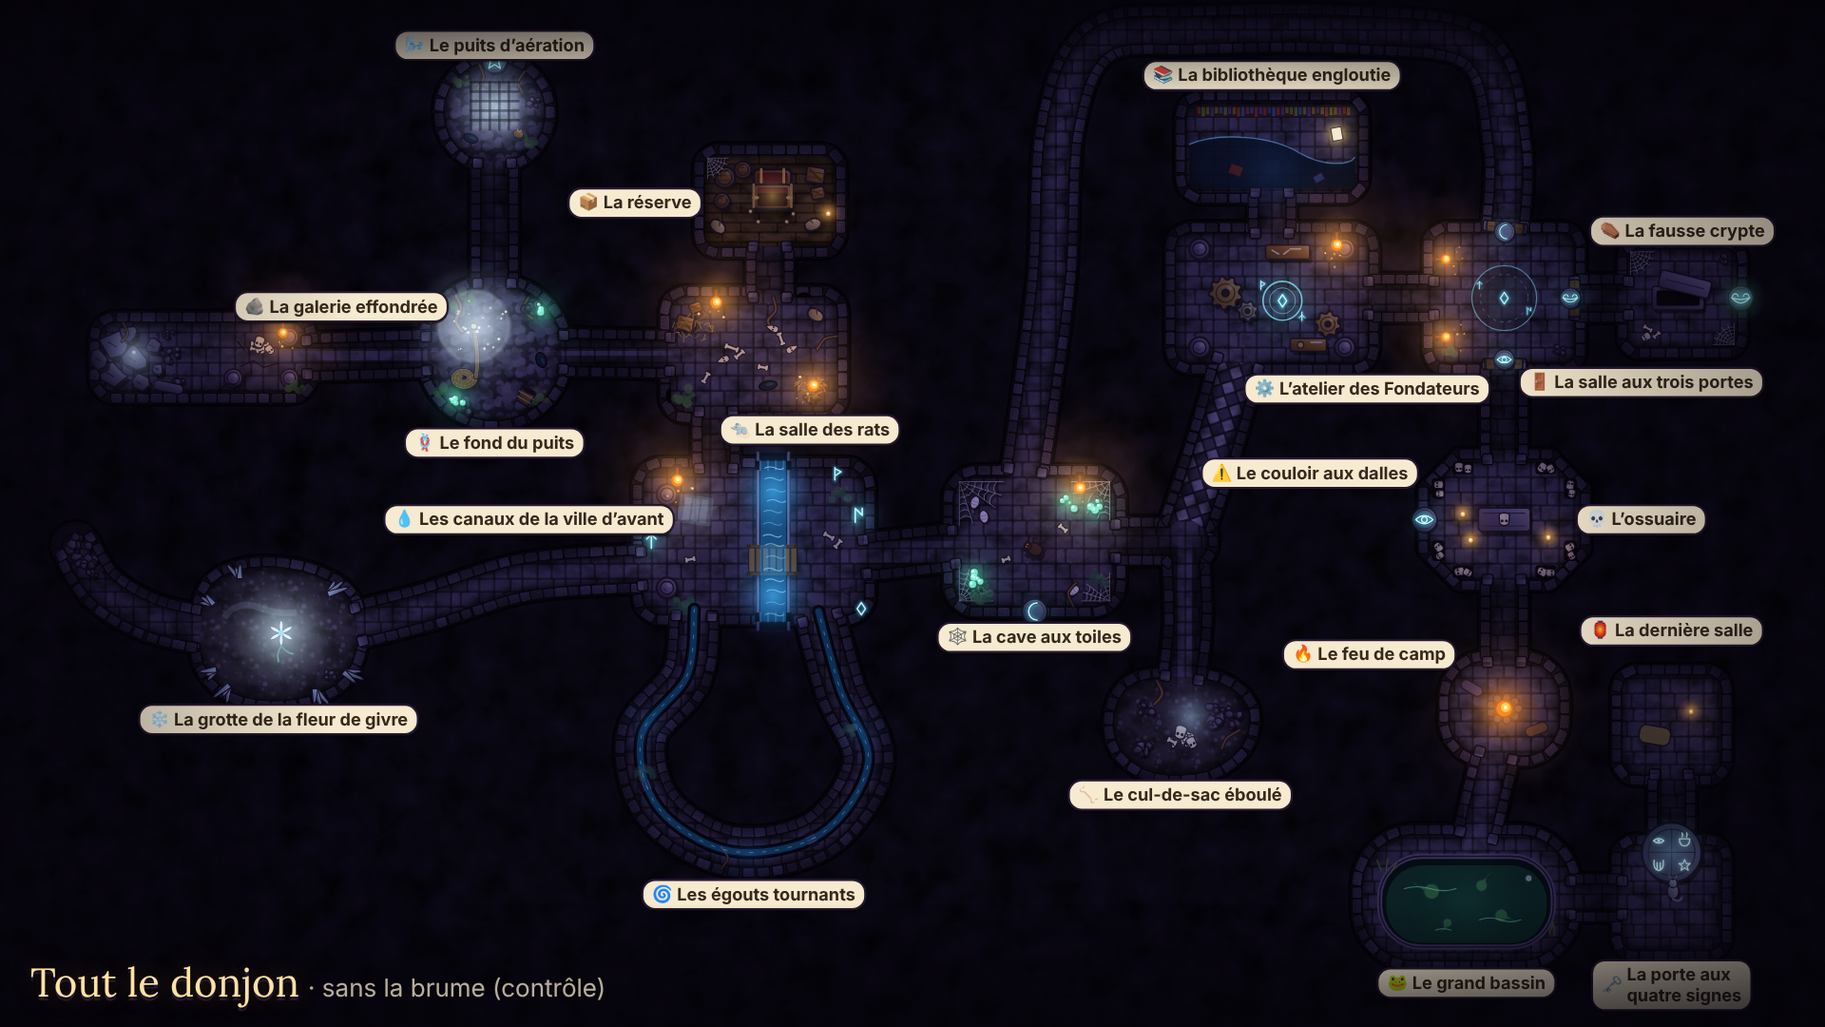
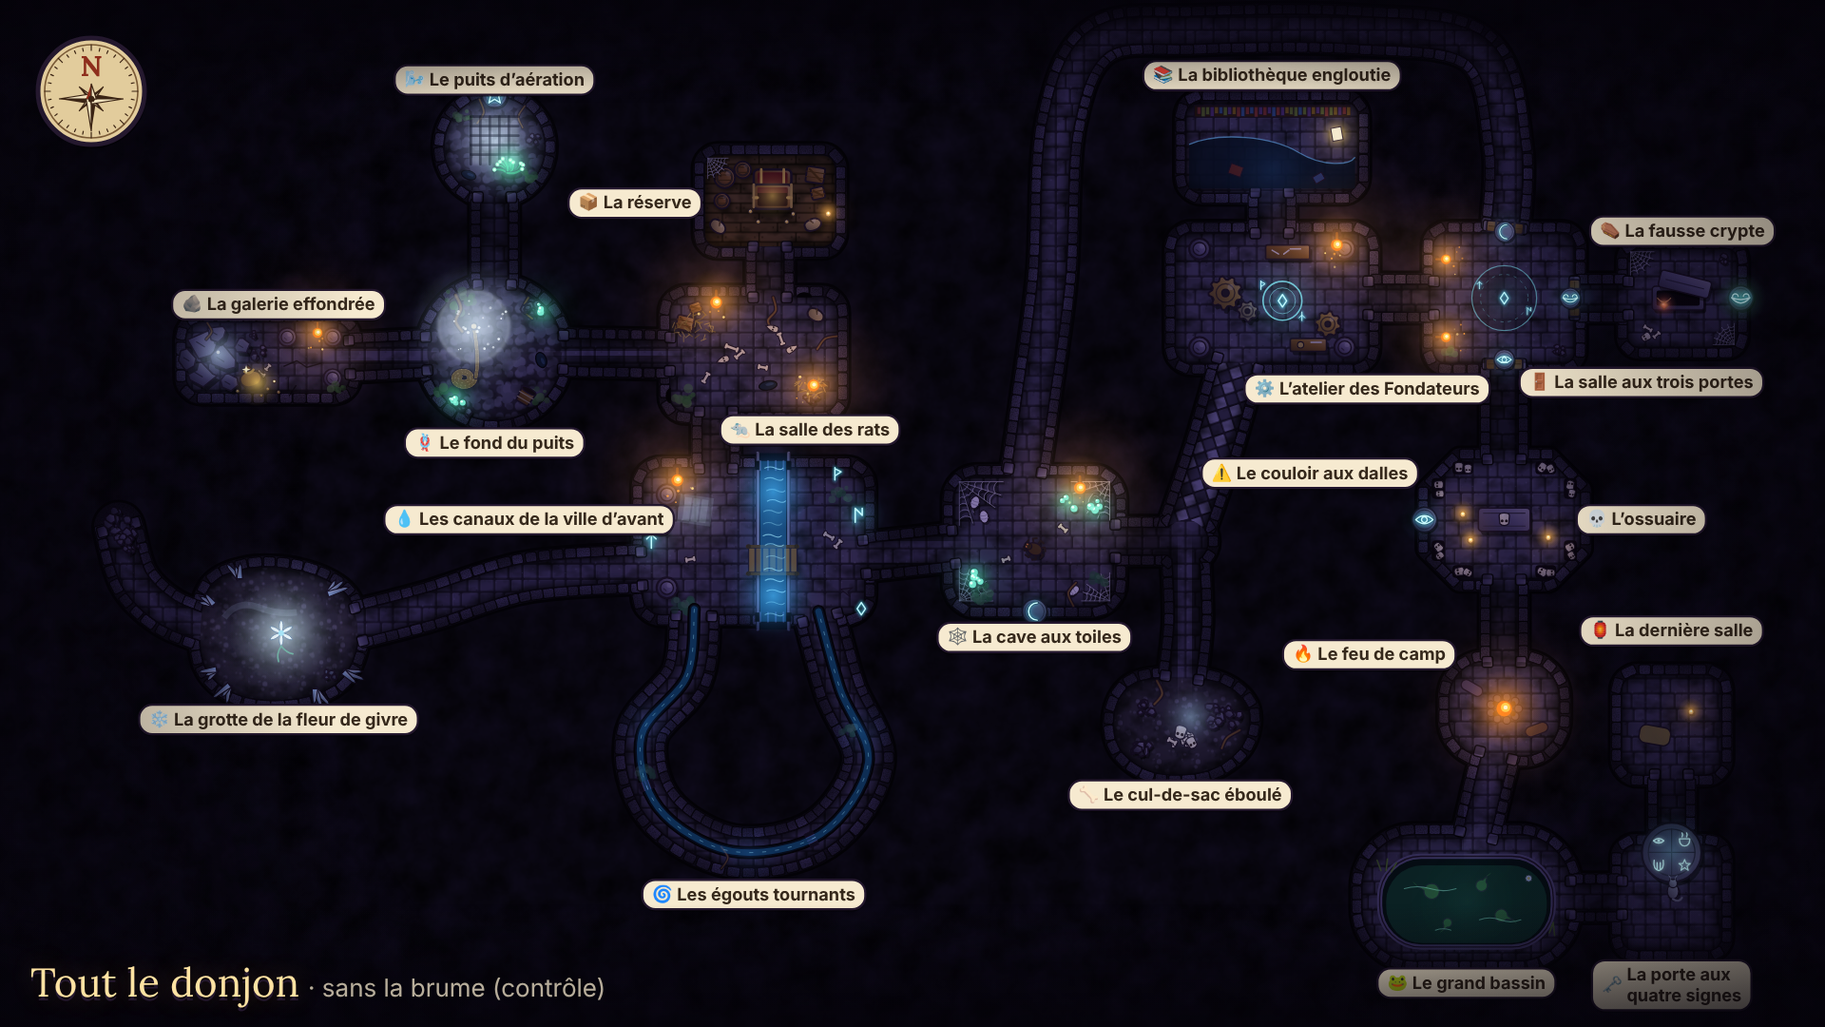
Donjon : exploration, rose des vents et culs-de-sac courts avec une trouvaille
Claude-Session: https://claude.ai/code/session_014tBbPJtKqYNLRAPgA5SpCV

diff --git a/jeu/donjon/maquettes/explo/donjon.js b/jeu/donjon/maquettes/explo/donjon.js
@@ -64,8 +64,8 @@ var SALLES = {}, ORDRE = [];
 function salle(id, o){ o.id = id; if(o.v1) o.d = modele(id, o.x, o.y); SALLES[id] = o; ORDRE.push(id); }
 /* signe : les salles que le plan du Sage marque d'un signe au lieu d'un nom (le Pisteur voit le même signe gravé au mur) */
 salle('puits',    {nom:'Le fond du puits', ic:'🪢', x:1200, y:750, v1:1});
-salle('aeration', {nom:'Le puits d’aération', ic:'🌬', x:1200, y:528, d:cercle(1200, 528, 46), signe:'etoile'});
-salle('galerie',  {nom:'La galerie effondrée', ic:'🪨', x:930, y:755, d:rr(930, 755, 190, 64, 14)});
+salle('aeration', {nom:'Le puits d’aération', ic:'🌬', x:1200, y:560, d:cercle(1200, 560, 46), signe:'etoile'});
+salle('galerie',  {nom:'La galerie effondrée', ic:'🪨', x:990, y:755, d:rr(990, 755, 150, 64, 14)});
 salle('rats',     {nom:'La salle des rats', ic:'🐀', x:1440, y:752, v1:1});
 salle('reserve',  {nom:'La réserve', ic:'📦', x:1455, y:610, v1:1});
 salle('canaux',   {nom:'Les canaux de la ville d’avant', ic:'💧', x:1440, y:925, v1:1});
@@ -87,8 +87,8 @@ salle('derniere', {nom:'La dernière salle', ic:'🏮', x:2290, y:1095, v1:1});
 var J = {x:1840, y:925, r:20};          /* l'embranchement, à la sortie est de la cave aux toiles */
 var COULOIRS = [
   {id:'cE', de:'puits', a:'rats', pts:[[1258, 750], [1310, 751], [1368, 752]]},
-  {id:'cO', de:'puits', a:'galerie', pts:[[1142, 751], [1085, 753], [1020, 755]]},
-  {id:'cN', de:'puits', a:'aeration', pts:[[1200, 694], [1200, 635], [1200, 570]]},
+  {id:'cO', de:'puits', a:'galerie', pts:[[1142, 751], [1102, 753], [1060, 755]]},
+  {id:'cN', de:'puits', a:'aeration', pts:[[1200, 694], [1200, 650], [1200, 602]]},
   {id:'c2', de:'rats', a:'reserve', pts:[[1455, 703], [1455, 648]]},
   {id:'c3', de:'rats', a:'canaux', pts:[[1405, 800], [1405, 862]]},
   {id:'c4', de:'canaux', a:'givre', pts:[[1342, 950], [1230, 958], [1140, 985], [1066, 1004]]},
@@ -109,8 +109,8 @@ COULOIRS.push({id:'dalles', de:'J', a:'atelier', pts:SALLES.dalles.pts, l:SALLES
 COULOIRS.push({id:'egouts', de:'canaux', a:'canaux', pts:SALLES.egouts.pts, l:SALLES.egouts.l, salle:'egouts'});
 /* le vieux passage : le plan du Sage le dessine de la galerie jusqu'à la grotte de givre ; aujourd'hui, il est bouché par un éboulement.
    Dans le donjon, il n'en reste qu'un bout, côté grotte, qui finit sur des éboulis. */
-var VIEUX = [[846, 762], [804, 800], [788, 878], [818, 952], [872, 992], [934, 1008]];
-COULOIRS.push({id:'vieux', de:'givre', a:null, pts:[[812, 930], [836, 968], [880, 995], [934, 1008]], bouche:true});
+var VIEUX = [[921, 762], [872, 790], [846, 860], [856, 935], [890, 985], [934, 1006]];
+COULOIRS.push({id:'vieux', de:'givre', a:null, pts:[[852, 912], [866, 960], [896, 990], [934, 1006]], bouche:true});
 var SECRET = [[1892, 1096], [1950, 1092], [2005, 1086], [2088, 1082]];   /* du cul-de-sac éboulé au feu de camp : seule l'encre invisible du plan le montre */
 
 window.DONJON = {W:W, H:H, WW:WW, WH:WH, SALLES:SALLES, ORDRE:ORDRE, COULOIRS:COULOIRS, J:J, SECRET:SECRET, VIEUX:VIEUX};
@@ -385,7 +385,7 @@ function signe(type, x, y, s, plaque){
   e += G(x, y, 0, s, '<path d="' + g + '" fill="none" stroke="#4fe0ff" stroke-width="3.6" opacity=".5" filter="' + flou(1.8) + '" stroke-linejoin="round"/><path d="' + g + '" fill="none" stroke="#c8faff" stroke-width="1.3" stroke-linejoin="round" stroke-linecap="round"/>');
   return {b:b, e:e, l:[x, y, 34, '#5fe8ff', .55]};
 }
-var SIGNES_MUR = {aeration:[1200, 480], cave:[1700, 990], crypte:[2354, 700], ossuaire:[2061, 905]};
+var SIGNES_MUR = {aeration:[1200, 512], cave:[1700, 990], crypte:[2354, 700], ossuaire:[2061, 905]};
 
 /* ================= le décor des salles ================= */
 function deco(id, etat){
@@ -412,34 +412,40 @@ function decoNeuf(id, etat){
   function add(o){ b += o.b || ''; e += o.e || ''; if(o.l) l.push(o.l); }
   switch(id){
   case 'galerie':
-    /* une longue galerie à colonnes ; au fond (à l'ouest), la voûte s'est effondrée et bouche tout */
-    b += colonne(1010, 736, 6.5) + colonne(1010, 774, 6.5) + colonne(958, 774, 6.5);
-    b += L('M1000 760 l-14 4 l-9 -6 l-12 5 M968 748 l-6 -8', '#0c0812', 1.2, ' opacity=".8"') + L('M944 786 l8 -7 l10 2', '#0c0812', 1, ' opacity=".7"');
-    /* l'éboulement : de gros blocs, puis des cailloux qui ont roulé */
+    /* une galerie à colonnes ; au fond (à l'ouest), la voûte s'est effondrée et bouche tout */
+    b += colonne(1050, 736, 6.5) + colonne(1050, 774, 6.5) + colonne(1008, 736, 6.5);
+    b += L('M1040 760 l-14 4 l-9 -6 l-12 5 M1010 790 l6 -9', '#0c0812', 1.2, ' opacity=".8"');
     var Rb = rng(215), blocs = '';
-    [[848, 742, 15], [846, 770, 14], [866, 756, 13], [860, 732, 9], [872, 778, 9], [884, 744, 8], [834, 756, 10], [888, 765, 6]].forEach(function(q){
+    [[930, 742, 15], [928, 770, 14], [948, 756, 13], [942, 732, 9], [954, 778, 9], [966, 744, 8], [916, 756, 10]].forEach(function(q){
       var pts = []; for(var k = 0; k < 7; k++){ var a2 = k / 7 * 6.283 + Rb(); pts.push([q[0] + Math.cos(a2) * q[2] * (.75 + Rb() * .35), q[1] + Math.sin(a2) * q[2] * (.75 + Rb() * .35)]); }
       blocs += F(poly(pts.map(function(p){ return [p[0] + 3, p[1] + 4]; })), '#000', ' opacity=".55"') + P(poly(pts), grad(mix('#6a6088', '#3e3550', Rb() * .5)), ' stroke-width="1.4"') + L('M' + f(q[0] - q[2] * .4) + ' ' + f(q[1] - q[2] * .1) + ' l' + f(q[2] * .5) + ' ' + f(q[2] * .3), '#2a2238', 1);
     });
-    b += eboulis(900, 752, 9, 203) + eboulis(906, 776, 6, 205) + eboulis(898, 734, 5, 207) + blocs;
-    b += G(898, 782, 12, 1, '<rect x="-14" y="-4" width="28" height="9" rx="4.5" fill="' + grad('#5e5478') + '" stroke="' + O + '" stroke-width="1.2"/>');
-    /* le tas d'os à fouiller */
-    var Ro = rng(211), to = ''; for(var k = 0; k < 10; k++) to += os(984 + (Ro() - .5) * 16, 744 + (Ro() - .5) * 8, Ro() * 180, 5 + Ro() * 4);
-    b += to + crane(982, 741, 20, 1.1) + crane(992, 748, -40, .9);
-    b += mousse(1016, 784, 7, 213) + racine([[856, 723], [860, 733], [855, 740]], 1.6);
-    add(torche(1004, 723, 90));
-    e += lum(866, 752, 26, '#bfe2ff', .6) + C(866, 750, 1.6, '#eef8ff', ' opacity=".8"'); l.push([866, 752, 64, '#9ac4ff', .8]);   /* un filet de lune passe entre les blocs */
+    b += eboulis(980, 750, 8, 203) + eboulis(978, 734, 4, 207) + blocs + os(984, 770, 30, 6) + os(990, 764, -50, 5);
+    /* la trouvaille : une bourse de pièces, tombée près des éboulis */
+    b += G(974, 774, -12, 1.4, '<ellipse cx="2" cy="3" rx="8" ry="6" fill="#000" opacity=".45"/><path d="M-7 1 C -8 -6 7 -7 7 0 C 8 7 -7 8 -7 1 Z" fill="' + grad('#9a6a38') + '" stroke="' + O + '" stroke-width="1.2"/>' +
+      L('M-3 -5 Q 0 -2 3 -5', '#e0b85a', 1.6) + '<path d="M-2 -6 L 0 -9 L 2 -6" fill="#7a4a28" stroke="' + O + '" stroke-width=".8"/>') +
+      piece(990, 784) + piece(996, 777) + piece(984, 790) + piece(1000, 787) + piece(962, 786);
+    e += lum(980, 778, 22, '#ffd36a', .8) + G(970, 766, 0, 1, '<path d="M0 -4 L 1 -1 L 4 0 L 1 1 L 0 4 L -1 1 L -4 0 L -1 -1 Z" fill="#fff6d0"/>') + C(996, 777, .9, '#fff6d0');
+    b += mousse(1054, 784, 6, 213) + racine([[934, 723], [938, 731], [933, 738]], 1.6);
+    add(torche(1036, 723, 90));
+    e += lum(944, 752, 26, '#bfe2ff', .6) + C(944, 750, 1.6, '#eef8ff', ' opacity=".8"'); l.push([944, 752, 64, '#9ac4ff', .8]);   /* un filet de lune passe entre les blocs */
     break;
   case 'aeration':
-    b += mousse(1172, 500, 9, 221) + mousse(1232, 556, 8, 223, '#355f40') + racine([[1186, 484], [1190, 496], [1184, 506]], 1.6) + racine([[1228, 490], [1222, 500], [1226, 510]], 1.4);
-    b += flaque(1178, 552, 7, 4, 20) + eboulis(1236, 518, 5, 225);
+    b += mousse(1172, 532, 9, 221) + mousse(1232, 588, 8, 223, '#355f40') + racine([[1186, 516], [1190, 528], [1184, 538]], 1.6) + racine([[1228, 522], [1222, 532], [1226, 542]], 1.4);
+    b += flaque(1176, 586, 7, 4, 20) + eboulis(1236, 552, 5, 225);
     /* la grille du puits d'aération : la lune tombe en carreaux */
-    var gr = ''; for(var gx = -22; gx <= 22; gx += 8.8) gr += L('M' + (1200 + gx) + ' 500 V544', '#0a0814', 2.4, ' opacity=".55"'); for(var gy = -22; gy <= 22; gy += 8.8) gr += L('M1178 ' + (522 + gy) + ' H1222', '#0a0814', 2.4, ' opacity=".55"');
-    e += '<g style="mix-blend-mode:screen"><circle cx="1200" cy="522" r="44" fill="' + halo('#bfe4ff') + '" opacity=".55"/><rect x="1178" y="500" width="44" height="44" rx="3" fill="#d8eeff" opacity=".2" filter="' + flou(1.5) + '"/></g>' + gr;
-    l.push([1200, 522, 78, '#a8d4ff', 1.2]);
-    /* la petite trouvaille : une bourse oubliée */
-    b += G(1222, 548, 15, 1, '<ellipse cx="1.5" cy="2" rx="5.5" ry="4.5" fill="#000" opacity=".4"/><path d="M-5 0 C -5 -5 5 -5 5 0 C 5 5 -5 5 -5 0 Z" fill="' + grad('#8a5a30') + '" stroke="' + O + '" stroke-width="1"/>' + L('M-2 -4 L 0 -2 L 2 -4', '#c9a35a', 1));
-    if(!vu) e += lum(1222, 548, 8, '#ffd36a', .7);
+    var gr = ''; for(var gx = -22; gx <= 22; gx += 8.8) gr += L('M' + (1200 + gx) + ' 532 V576', '#0a0814', 2.4, ' opacity=".55"'); for(var gy = -22; gy <= 22; gy += 8.8) gr += L('M1178 ' + (554 + gy) + ' H1222', '#0a0814', 2.4, ' opacity=".55"');
+    e += '<g style="mix-blend-mode:screen"><circle cx="1200" cy="554" r="44" fill="' + halo('#bfe4ff') + '" opacity=".55"/><rect x="1178" y="532" width="44" height="44" rx="3" fill="#d8eeff" opacity=".2" filter="' + flou(1.5) + '"/></g>' + gr;
+    l.push([1200, 554, 78, '#a8d4ff', 1.2]);
+    /* la trouvaille : des herbes qui luisent, nourries par la lune */
+    var Rh = rng(227), hb = '', he = '';
+    for(var k = 0; k < 9; k++){ var a3 = -Math.PI / 2 + (k - 4) * .32 + (Rh() - .5) * .2, lg = 9 + Rh() * 7, x0 = 1214 + (Rh() - .5) * 6, y0 = 584;
+      var x1 = x0 + Math.cos(a3) * lg, y1 = y0 + Math.sin(a3) * lg, cx = x0 + Math.cos(a3 + .5) * lg * .5, cy = y0 + Math.sin(a3 + .5) * lg * .5;
+      hb += L('M' + f(x0) + ' ' + f(y0) + ' Q' + f(cx) + ' ' + f(cy) + ' ' + f(x1) + ' ' + f(y1), O, 3.2) + L('M' + f(x0) + ' ' + f(y0) + ' Q' + f(cx) + ' ' + f(cy) + ' ' + f(x1) + ' ' + f(y1), '#3a9a6a', 1.8);
+      he += C(x1, y1, 1.9, '#9fffd8') + C(x1, y1, .8, '#f0fff8'); }
+    b += '<ellipse cx="1216" cy="586" rx="10" ry="4" fill="#000" opacity=".4"/>' + hb;
+    e += lum(1214, 576, 22, '#5fffc0', .8) + he;
+    l.push([1214, 578, 46, '#4fffb8', .7]);
     break;
   case 'portes':
     e += G(2135, 700, 0, 1, '<circle r="30" fill="none" stroke="#7ff0ff" stroke-width="1.1" opacity=".5"/><circle r="22" fill="none" stroke="#7ff0ff" stroke-width=".7" opacity=".35" stroke-dasharray="3 4"/>') + rune(2135, 700, .9, 4) + rune(2112, 688, .55, 2) + rune(2158, 712, .55, 6);
@@ -453,7 +459,8 @@ function decoNeuf(id, etat){
     b += G(2296, 700, 0, 1, '<rect x="-24" y="-11" width="48" height="22" rx="3" fill="#000" opacity=".5" transform="translate(2 3)"/><rect x="-24" y="-11" width="48" height="22" rx="3" fill="' + grad('#5a5272') + '" stroke="' + O + '" stroke-width="1.3"/><rect x="-20" y="-7" width="40" height="14" rx="2" fill="#0c0812"/>') +
       G(2302, 688, 14, 1, '<rect x="-24" y="-9" width="48" height="16" rx="3" fill="#000" opacity=".4" transform="translate(2 3)"/><rect x="-24" y="-9" width="48" height="16" rx="3" fill="' + grad('#6a6288') + '" stroke="' + O + '" stroke-width="1.3"/>' + L('M-18 -1 H18', '#3a3250', 1));
     b += toile(2252, 657, 22, 0, Math.PI / 2, false, 31) + toile(2348, 743, 20, Math.PI, Math.PI * 1.5, false, 33) + os(2268, 728, 30, 7) + os(2276, 734, -40, 6) + crane(2266, 736, 60, .9) + eboulis(2340, 664, 5, 235);
-    e += lum(2354, 700, 24, '#6fff9a', .35);
+    b += G(2283, 704, 0, 1, L('M-6 -4 Q 0 3 6 -4', '#c9a35a', 1.1) + '<path d="M0 -1 L 3.4 2.6 L 0 6.4 L -3.4 2.6 Z" fill="#d8303e" stroke="#5a3a1a" stroke-width="1.2"/>' + C(-1, 1.6, .9, '#ffd0d0'));
+    e += lum(2354, 700, 24, '#6fff9a', .35) + lum(2283, 706, 12, '#ff6a6a', .6) + lum(2283, 706, 6, '#ffd36a', .5);
     break;
   case 'egouts':
     var dE = lisse(SALLES.egouts.pts);
@@ -467,7 +474,7 @@ function decoNeuf(id, etat){
   return {b:b, e:e, l:l};
 }
 /* le bout du vieux passage, côté grotte de givre : il finit sur un éboulement */
-function decoVieux(){ return eboulis(816, 934, 17, 251, '#5e5478') + eboulis(828, 950, 9, 253); }
+function decoVieux(){ return eboulis(852, 910, 17, 251, '#5e5478') + eboulis(862, 928, 9, 253); }
 
 /* ================= les repères de sortie ================= */
 function sortie(c, t, inverse){
@@ -761,6 +768,17 @@ function volutes(seed){
 }
 
 /* ================= la petite main qui glisse (on peut faire glisser la carte) ================= */
+function roseEcran(x, y){   /* même dessin que la rose du plan du Sage ; le nord est en haut, comme sur le plan */
+  var ENC = '#3b2414', ROU = '#8e2e1c', s = '<circle r="28" fill="#000" opacity=".45" transform="translate(1 2)"/><circle r="28" fill="#e2cc9c" stroke="' + O + '" stroke-width="2.5"/><circle r="24.5" fill="none" stroke="#7a5a36" stroke-width=".8"/>';
+  for(var k = 0; k < 32; k++){ var a = k / 32 * 6.283; s += L('M' + f(Math.cos(a) * 21.5) + ' ' + f(Math.sin(a) * 21.5) + ' L' + f(Math.cos(a) * (k % 4 ? 23 : 24.5)) + ' ' + f(Math.sin(a) * (k % 4 ? 23 : 24.5)), ENC, .6); }
+  for(var k2 = 7; k2 >= 0; k2--){
+    var a2 = k2 / 8 * 6.283 - Math.PI / 2, lg = k2 % 2 ? 9 : (k2 === 0 ? 8 : 17), la = k2 % 2 ? 1.6 : 2.7;
+    var px = Math.cos(a2) * lg, py = Math.sin(a2) * lg + 4, gx = Math.cos(a2 - Math.PI / 2) * la, gy = Math.sin(a2 - Math.PI / 2) * la + 4, dx = Math.cos(a2 + Math.PI / 2) * la, dy = Math.sin(a2 + Math.PI / 2) * la + 4;
+    s += '<path d="M0 4 L' + f(gx) + ' ' + f(gy) + ' L' + f(px) + ' ' + f(py) + ' Z" fill="' + (k2 === 0 ? ROU : ENC) + '"/><path d="M0 4 L' + f(dx) + ' ' + f(dy) + ' L' + f(px) + ' ' + f(py) + ' Z" fill="#f2e4c0" stroke="' + ENC + '" stroke-width=".6"/>';
+  }
+  s += C(0, 4, 1.6, ENC) + '<text x="0" y="-12.5" text-anchor="middle" dominant-baseline="central" font-size="15" font-weight="700" style="font-family:Lora, Georgia, serif;paint-order:stroke" stroke="#e2cc9c" stroke-width="2.6" fill="' + ROU + '">N</text>';
+  return G(x, y, 0, 1, s);
+}
 function mainGlisse(x, y){
   var fl = 'M-22 -20 H22 M-16 -25 L -22 -20 L -16 -15 M16 -25 L 22 -20 L 16 -15';
   return G(x, y, 0, 1, '<circle r="31" fill="#0c0812" opacity=".6"/>' +
@@ -774,20 +792,20 @@ function mainGlisse(x, y){
 var PV = {pisteur:120, alchimiste:100, sage:90};
 var ETATS = {
   debut:{
-    ecran:[720, 480], vu:['puits'], couloirs:{cE:.56, cO:.56, cN:.56}, heros:[1200, 752, 0],
-    sorties:[['cE', .51], ['cO', .51], ['cN', .51]], main:true,
+    ecran:[720, 480], vu:['puits'], couloirs:{cE:.48, cO:.6, cN:.52}, heros:[1200, 752, 0],
+    sorties:[['cE', .42], ['cO', .52], ['cN', .45]], main:true,
     bulle:{t:'Trois passages s’enfoncent dans la brume… Par où aller ?', x:372, w:380},
     pv:{pisteur:120, alchimiste:100, sage:90}
   },
   impasse:{
-    ecran:[640, 480], vu:['puits', 'galerie'], couloirs:{cE:.56, cN:.56, cO:1}, heros:[944, 757, 180],
-    sorties:[['cE', .51], ['cN', .51]],
+    ecran:[690, 480], vu:['puits', 'galerie'], couloirs:{cE:.48, cN:.52, cO:1}, heros:[1046, 752, 180],
+    sorties:[['cE', .42], ['cN', .45]],
     bulle:{t:'Des éboulis, rien que des éboulis… Le Sage avait peut-être une idée ?', x:360, w:400},
     pv:{pisteur:120, alchimiste:100, sage:90}
   },
   milieu:{
     ecran:[1000, 505], vu:['puits', 'galerie', 'rats', 'reserve', 'canaux', 'cave'], J:true,
-    couloirs:{cE:1, cO:1, cN:.5, c2:1, c3:1, c5:1, c6:1, c4:.3, egouts:[[0, .1], [.9, 1]], pLune:[[.9, 1]], dalles:.46, c8:.5}, heros:[1793, 925, 0],
+    couloirs:{cE:1, cO:1, cN:.52, c2:1, c3:1, c5:1, c6:1, c4:.3, egouts:[[0, .1], [.9, 1]], pLune:[[.9, 1]], dalles:.46, c8:.5}, heros:[1793, 925, 0],
     sorties:[['cN', .45], ['c4', .25], ['pLune', .915, 1], ['dalles', .42], ['c8', .45]],
     bulle:{t:'Encore trois passages dans la brume… Le Sage sait peut-être lequel prendre.', x:560, w:384}, etiq:{galerie:[1093, 806]},
     pv:{pisteur:84, alchimiste:71, sage:58}
@@ -797,7 +815,7 @@ var ETATS = {
 COULOIRS.forEach(function(c){ ETATS.tout.couloirs[c.id] = 1; });
 /* où poser les étiquettes */
 var ETIQ = {
-  puits:[1200, 834], galerie:[1058, 708], aeration:[1200, 466], rats:[1492, 822], reserve:[1330, 612], canaux:[1232, 905], givre:[1000, 1090],
+  puits:[1200, 834], galerie:[1000, 706], aeration:[1200, 498], rats:[1492, 822], reserve:[1330, 612], canaux:[1232, 905], givre:[1000, 1090],
   cave:[1700, 1014], dalles:[1955, 862], egouts:[1440, 1252], eboule:[1835, 1160], atelier:[2008, 784], biblio:[1920, 494], portes:[2262, 778],
   crypte:[2300, 638], ossuaire:[2262, 905], feu:[2010, 1030], bassin:[2100, 1334], porte:[2290, 1336], derniere:[2290, 1008]
 };
@@ -831,7 +849,7 @@ function vue(nom){
   if(!E.tout){
     var dm = '<rect x="' + (Z.x - 160) + '" y="' + (Z.y - 160) + '" width="' + (Z.w + 320) + '" height="' + (Z.h + 320) + '" fill="#fff"/>';
     E.vu.forEach(function(k){ var r = SALLES[k]; dm += '<path d="' + r.d + '" fill="#000" stroke="#000" stroke-width="' + (2 * M + 34) + '" stroke-linejoin="round"/>'; });
-    COULOIRS.forEach(function(c){ var t = E.couloirs[c.id]; if(t) morceaux(t).forEach(function(m){ dm += '<path d="' + lisse(troncon(c.pts, m[0], m[1])) + '" fill="none" stroke="#000" stroke-width="' + ((c.l || SOL) + 2 * M + 26) + '" stroke-linecap="round" stroke-linejoin="round"/>'; }); });
+    COULOIRS.forEach(function(c){ var t = E.couloirs[c.id]; if(t) morceaux(t).forEach(function(m){ dm += '<path d="' + lisse(troncon(c.pts, m[0], m[1])) + '" fill="none" stroke="#000" stroke-width="' + ((c.l || SOL) + 2 * M + 26) + '" stroke-linecap="' + (m[1] - m[0] >= 1 ? 'round' : 'butt') + '" stroke-linejoin="round"/>'; }); });
     if(E.J) dm += '<circle cx="' + J.x + '" cy="' + J.y + '" r="' + (J.r + M + 18) + '" fill="#000"/>';
     DEFS.l.push('<mask id="mBrume" maskUnits="userSpaceOnUse" x="' + (Z.x - 160) + '" y="' + (Z.y - 160) + '" width="' + (Z.w + 320) + '" height="' + (Z.h + 320) + '"><g filter="url(#densite)">' + dm + '</g></mask>');
     corps += '<g mask="url(#mBrume)"><rect x="' + (Z.x - 150) + '" y="' + (Z.y - 150) + '" width="' + (Z.w + 300) + '" height="' + (Z.h + 300) + '" filter="url(#nuage)"/>' + volutes(7) + '</g>';
@@ -851,6 +869,7 @@ function vue(nom){
   DEFS.l.push('<linearGradient id="vigH" x1="0" y1="0" x2="0" y2="1"><stop offset="0" stop-color="#05030a" stop-opacity=".75"/><stop offset=".1" stop-color="#05030a" stop-opacity="0"/><stop offset=".88" stop-color="#05030a" stop-opacity="0"/><stop offset="1" stop-color="#05030a" stop-opacity=".7"/></linearGradient>');
   var ecran = '<rect width="' + W + '" height="' + H + '" fill="url(#vig)"/><rect width="' + W + '" height="' + H + '" fill="url(#vigH)"/>';
   if(E.main) ecran += mainGlisse(900, 418);
+  ecran += E.tout ? roseEcran(48, 48) : roseEcran(48, 86);
   corps += '<g transform="translate(' + VB[0] + ' ' + VB[1] + ') scale(' + f(VB[2] / W * 1000) / 1000 + ')">' + ecran + '</g>';
   var svg = '<svg viewBox="' + VB.join(' ') + '" width="' + W + '" height="' + H + '" style="position:absolute;inset:0;display:block"><defs>' + DEFS.l.join('') + '</defs>' + corps + '</svg>';
   return CSS + '<div class="ex">' + svg + (E.tout ? '<div class="ex-a" style="left:16px;bottom:10px"><span class="ex-titre">Tout le donjon</span> <span class="ex-sous">· sans la brume (contrôle)</span></div>' : hud(E)) + '</div>';

diff --git a/jeu/donjon/maquettes/explo/plan.js b/jeu/donjon/maquettes/explo/plan.js
@@ -125,10 +125,10 @@ function details(){
   var s = '', w = 1.7;
   Object.keys(V1C).forEach(function(k){ var o = S[k], v = V1C[k]; s += '<g transform="translate(' + o.x + ' ' + o.y + ') scale(1.2) translate(' + (-v[0]) + ' ' + (-v[1]) + ')">' + detailsV1(k) + '</g>'; });
   /* la grande galerie (le plan est vieux : il la montre intacte) */
-  s += colonne(1010, 736, 6, w) + colonne(1010, 774, 6, w) + colonne(946, 736, 6, w) + colonne(946, 774, 6, w) + colonne(882, 736, 6, w) + colonne(882, 774, 6, w);
+  s += colonne(1050, 736, 6, w) + colonne(1050, 774, 6, w) + colonne(990, 736, 6, w) + colonne(990, 774, 6, w) + colonne(930, 736, 6, w) + colonne(930, 774, 6, w);
   /* le puits d'aération : sa grille */
-  s += '<rect x="1180" y="502" width="40" height="40" fill="#9fb8c0" opacity=".25"/>';
-  for(var g = 0; g <= 40; g += 8) s += L('M' + (1180 + g) + ' 502 V542 M1180 ' + (502 + g) + ' H1220', ENC, w * .7);
+  s += '<rect x="1180" y="534" width="40" height="40" fill="#9fb8c0" opacity=".25"/>';
+  for(var g = 0; g <= 40; g += 8) s += L('M' + (1180 + g) + ' 534 V574 M1180 ' + (534 + g) + ' H1220', ENC, w * .7);
   /* la salle aux trois portes : le cercle au sol, les trois portes */
   s += C(2135, 700, 28, 'none', ' stroke="' + ENC + '" stroke-width="' + w + '"') + C(2135, 700, 20, 'none', ' stroke="' + ENC2 + '" stroke-width="' + w * .6 + '" stroke-dasharray="4 4"');
   [[2135, 641, 0], [2199, 700, 90], [2135, 759, 0]].forEach(function(p){ s += G(p[0], p[1], p[2], 1, '<rect x="-17" y="-4" width="34" height="8" fill="#a0784a" stroke="' + ENC + '" stroke-width="' + w + '"/>'); });
@@ -204,12 +204,12 @@ function plan(){
   p += '<g filter="url(#main)"><g transform="translate(' + OX + ' ' + OY + ') scale(' + SC + ') translate(' + (-X0) + ' ' + (-Y0) + ')">' + dj + '</g></g>';
 
   /* ======== les signes au lieu des noms ======== */
-  p += signe('etoile', ex(1200), ey(522), 17) + signe('lune', ex(1700), ey(925), 20) + signe('oeil', ex(2135), ey(905), 20) + signe('gueule', ex(2300), ey(712), 18);
+  p += signe('etoile', ex(1200), ey(554), 17) + signe('lune', ex(1700), ey(925), 20) + signe('oeil', ex(2135), ey(905), 20) + signe('gueule', ex(2300), ey(712), 18);
   /* et les mêmes signes gravés sur les trois portes */
   p += signe('lune', ex(2135), ey(626), 9) + signe('gueule', ex(2214), ey(700), 9) + signe('oeil', ex(2135), ey(774), 9);
   /* ======== les noms à la plume ======== */
   var T = 13.5;
-  p += texte(ex(1200), ey(838), ['Le fond du puits'], T) + texte(ex(930), ey(755), ['La grande galerie'], 11.5) + texte(ex(1440), ey(752), ['La salle', 'des rats'], T) +
+  p += texte(ex(1200), ey(838), ['Le fond du puits'], T) + texte(ex(990), ey(755), ['La grande', 'galerie'], 11) + texte(ex(1440), ey(752), ['La salle', 'des rats'], T) +
     texte(ex(1455), ey(610), ['La réserve'], 12) + texte(ex(1372), ey(905), ['Les canaux', 'de la ville', 'd’avant'], 11) + texte(ex(1000), ey(1100), ['La grotte de la', 'fleur de givre'], T) +
     texte(ex(1920), ey(700), ['L’atelier des', 'Fondateurs'], 12.5) + texte(ex(1920), ey(568), ['La bibliothèque', 'engloutie'], 11.5) + texte(ex(2135), ey(700), ['La salle aux', 'trois portes'], 10.5) +
     texte(ex(2135), ey(1080), ['Le feu', 'de camp'], 11) + texte(ex(1800), ey(1170), ['Le cul-de-sac éboulé'], 12.5);
